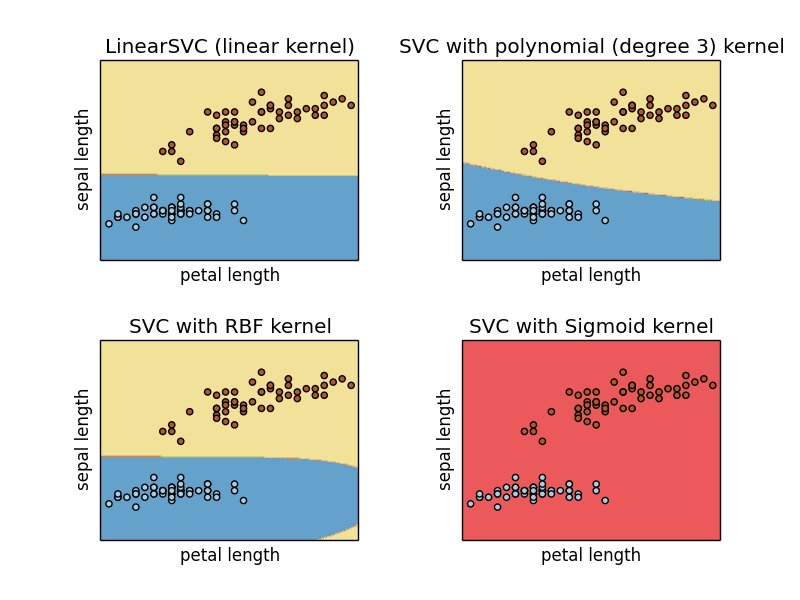
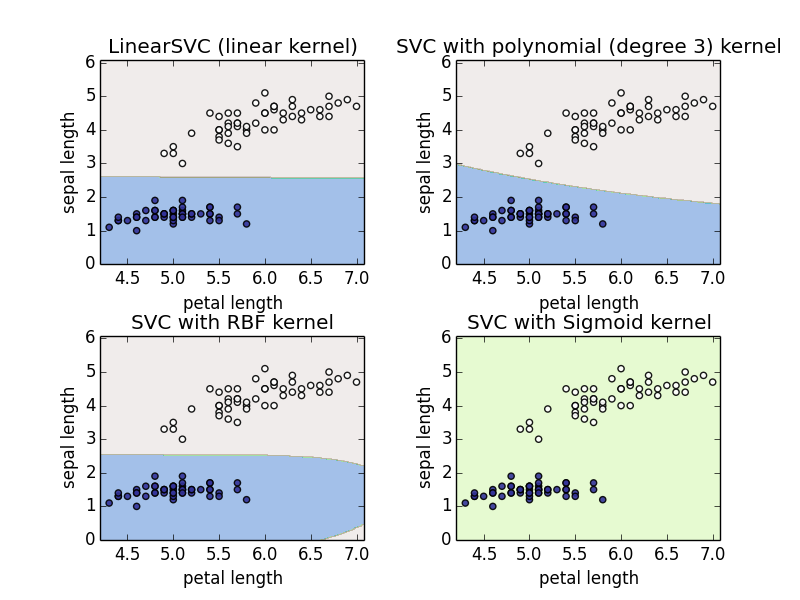
post

diff --git a/_site/liuqianchao/update/2015/11/29/SVM/index.html b/_site/liuqianchao/update/2015/11/29/SVM/index.html
@@ -80,7 +80,7 @@
 
 <h3 id="what-is-svm">1. What is <em>SVM</em>?</h3>
 <p>In general, there are two kinds of classificaiton, <strong>non-parametric</strong> and <strong>parametric</strong> approaches. The parametric approach is to assume a simple parametric model for density functions and to estimate the parameters of the model using an available training set.
-However, for most of cases, we can not assume that the desity of data samples is characterised by a series of parameters in this irregular world. So we introduce the non-parametric method which includes <em>SVM</em>.</p>
+However, for most of cases, we can not assume that the desity of data samples can be characterised by a series of parameters in this irregular world. So we introduce the non-parametric method which includes <em>SVM</em>.</p>
 
 <h3 id="how-it-works">2. How it works?</h3>
 
@@ -88,6 +88,8 @@ However, for most of cases, we can not assume that the desity of data samples is
 <p>There is a package named <em>scikit-learn</em> in Python. Find information to install it at <a href="http://scikit-learn.org/stable/index.html">here</a>. We can use the official date sets of <em>scikit-learn</em>, and examine the performance of classification. Here, we use <em>Iris</em> dataset. There are 3 kinds of iris, each sample has 4 properties which include petal length, petal width, sepal length, and sepal width.    </p>
 
 <p>In this experiment, we removed one kind of iris, and two groups of iris are left. After this process, we have two kinds of iris, and each kind has 50 samples. And in order to draw two-dimensional chart, two properties are left: petal length and sepal length.</p>
+
+<h4 id="handle-the-dataset">3.1 Handle the dataset</h4>
 
 <figure class="highlight"><pre><code class="language-python" data-lang="python"><span class="c">#acquire and handle dataset.</span>
 <span class="kn">from</span> <span class="nn">sklearn</span> <span class="kn">import</span> <span class="n">datasets</span> 
@@ -97,65 +99,63 @@ However, for most of cases, we can not assume that the desity of data samples is
 <span class="k">for</span> <span class="n">num</span> <span class="ow">in</span> <span class="nb">range</span><span class="p">(</span><span class="nb">len</span><span class="p">(</span><span class="n">iris</span><span class="o">.</span><span class="n">target</span><span class="p">)):</span>
     <span class="k">if</span> <span class="n">iris</span><span class="o">.</span><span class="n">target</span><span class="p">[</span><span class="n">num</span><span class="p">]</span><span class="o">!=</span><span class="mi">2</span><span class="p">:</span> <span class="c">#iris.target[num]=2 is corresponding to the third kind of iris</span>
         <span class="n">dateset_property</span><span class="o">.</span><span class="n">append</span><span class="p">(</span><span class="n">iris</span><span class="o">.</span><span class="n">data</span><span class="p">[</span><span class="n">num</span><span class="p">])</span>
-        <span class="n">dateset_target</span><span class="o">.</span><span class="n">append</span><span class="p">(</span><span class="n">iris</span><span class="o">.</span><span class="n">target</span><span class="p">[</span><span class="n">num</span><span class="p">])</span></code></pre></figure>
+        <span class="n">dateset_target</span><span class="o">.</span><span class="n">append</span><span class="p">(</span><span class="n">iris</span><span class="o">.</span><span class="n">target</span><span class="p">[</span><span class="n">num</span><span class="p">])</span>
+<span class="n">x</span> <span class="o">=</span> <span class="n">np</span><span class="o">.</span><span class="n">array</span><span class="p">(</span><span class="n">dateset_property</span><span class="p">)</span>
+<span class="n">y</span> <span class="o">=</span> <span class="n">np</span><span class="o">.</span><span class="n">array</span><span class="p">(</span><span class="n">dateset_target</span><span class="p">)</span></code></pre></figure>
+
+<h4 id="train-the-model">3.2 Train the model.</h4>
+<p>In this experiment, I apply 4 kinds of kernel function, including <em>linear</em>,<em>poly</em>,<em>RBF</em> and <em>sigmoid</em>.</p>
 
 <figure class="highlight"><pre><code class="language-python" data-lang="python"><span class="kn">import</span> <span class="nn">numpy</span> <span class="kn">as</span> <span class="nn">np</span>
 <span class="kn">from</span> <span class="nn">sklearn</span> <span class="kn">import</span> <span class="n">svm</span>
 <span class="kn">from</span> <span class="nn">sklearn.cross_validation</span> <span class="kn">import</span> <span class="n">train_test_split</span>
-<span class="kn">import</span> <span class="nn">matplotlib.pyplot</span> <span class="kn">as</span> <span class="nn">plt</span>
 
-<span class="n">x</span> <span class="o">=</span> <span class="n">np</span><span class="o">.</span><span class="n">array</span><span class="p">(</span><span class="n">dateset_property</span><span class="p">)</span>
-<span class="n">y</span> <span class="o">=</span> <span class="n">np</span><span class="o">.</span><span class="n">array</span><span class="p">(</span><span class="n">dateset_target</span><span class="p">)</span>
-
+<span class="c">#split the dataset, and rearrange the list</span>
 <span class="n">x_train</span><span class="p">,</span> <span class="n">x_test</span><span class="p">,</span> <span class="n">y_train</span><span class="p">,</span> <span class="n">y_test</span> <span class="o">=</span> <span class="n">train_test_split</span><span class="p">(</span><span class="n">x</span><span class="p">,</span> <span class="n">y</span><span class="p">,</span> <span class="n">test_size</span> <span class="o">=</span> <span class="mf">0.0</span><span class="p">)</span>
 
-<span class="n">h</span> <span class="o">=</span> <span class="o">.</span><span class="mo">02</span>
 <span class="c"># create a mesh to plot in</span>
 <span class="n">x_min</span><span class="p">,</span> <span class="n">x_max</span> <span class="o">=</span> <span class="n">x_train</span><span class="p">[:,</span> <span class="mi">0</span><span class="p">]</span><span class="o">.</span><span class="n">min</span><span class="p">()</span> <span class="o">-</span> <span class="mf">0.1</span><span class="p">,</span> <span class="n">x_train</span><span class="p">[:,</span> <span class="mi">0</span><span class="p">]</span><span class="o">.</span><span class="n">max</span><span class="p">()</span> <span class="o">+</span> <span class="mf">0.1</span>
 <span class="n">y_min</span><span class="p">,</span> <span class="n">y_max</span> <span class="o">=</span> <span class="n">x_train</span><span class="p">[:,</span> <span class="mi">1</span><span class="p">]</span><span class="o">.</span><span class="n">min</span><span class="p">()</span> <span class="o">-</span> <span class="mi">1</span><span class="p">,</span> <span class="n">x_train</span><span class="p">[:,</span> <span class="mi">1</span><span class="p">]</span><span class="o">.</span><span class="n">max</span><span class="p">()</span> <span class="o">+</span> <span class="mi">1</span>
-<span class="n">xx</span><span class="p">,</span> <span class="n">yy</span> <span class="o">=</span> <span class="n">np</span><span class="o">.</span><span class="n">meshgrid</span><span class="p">(</span><span class="n">np</span><span class="o">.</span><span class="n">arange</span><span class="p">(</span><span class="n">x_min</span><span class="p">,</span> <span class="n">x_max</span><span class="p">,</span> <span class="n">h</span><span class="p">),</span>
-                     <span class="n">np</span><span class="o">.</span><span class="n">arange</span><span class="p">(</span><span class="n">y_min</span><span class="p">,</span> <span class="n">y_max</span><span class="p">,</span> <span class="n">h</span><span class="p">))</span>
+<span class="n">xx</span><span class="p">,</span> <span class="n">yy</span> <span class="o">=</span> <span class="n">np</span><span class="o">.</span><span class="n">meshgrid</span><span class="p">(</span><span class="n">np</span><span class="o">.</span><span class="n">arange</span><span class="p">(</span><span class="n">x_min</span><span class="p">,</span> <span class="n">x_max</span><span class="p">,</span> <span class="mf">0.02</span><span class="p">),</span> <span class="n">np</span><span class="o">.</span><span class="n">arange</span><span class="p">(</span><span class="n">y_min</span><span class="p">,</span> <span class="n">y_max</span><span class="p">,</span> <span class="mf">0.02</span><span class="p">))</span>
 
 <span class="c"># title for the plots</span>
-<span class="n">titles</span> <span class="o">=</span> <span class="p">[</span><span class="s">&#39;LinearSVC (linear kernel)&#39;</span><span class="p">,</span>
-          <span class="s">&#39;SVC with polynomial (degree 3) kernel&#39;</span><span class="p">,</span>
-          <span class="s">&#39;SVC with RBF kernel&#39;</span><span class="p">,</span>
-          <span class="s">&#39;SVC with Sigmoid kernel&#39;</span><span class="p">]</span>
-<span class="n">clf_linear</span>  <span class="o">=</span> <span class="n">svm</span><span class="o">.</span><span class="n">SVC</span><span class="p">(</span><span class="n">kernel</span><span class="o">=</span><span class="s">&#39;linear&#39;</span><span class="p">)</span><span class="o">.</span><span class="n">fit</span><span class="p">(</span><span class="n">x</span><span class="p">,</span> <span class="n">y</span><span class="p">)</span>
-<span class="c">#clf_linear  = svm.LinearSVC().fit(x, y)</span>
-<span class="n">clf_poly</span>    <span class="o">=</span> <span class="n">svm</span><span class="o">.</span><span class="n">SVC</span><span class="p">(</span><span class="n">kernel</span><span class="o">=</span><span class="s">&#39;poly&#39;</span><span class="p">,</span> <span class="n">degree</span><span class="o">=</span><span class="mi">3</span><span class="p">)</span><span class="o">.</span><span class="n">fit</span><span class="p">(</span><span class="n">x</span><span class="p">,</span> <span class="n">y</span><span class="p">)</span>
-<span class="n">clf_rbf</span>     <span class="o">=</span> <span class="n">svm</span><span class="o">.</span><span class="n">SVC</span><span class="p">()</span><span class="o">.</span><span class="n">fit</span><span class="p">(</span><span class="n">x</span><span class="p">,</span> <span class="n">y</span><span class="p">)</span>
-<span class="n">clf_sigmoid</span> <span class="o">=</span> <span class="n">svm</span><span class="o">.</span><span class="n">SVC</span><span class="p">(</span><span class="n">kernel</span><span class="o">=</span><span class="s">&#39;sigmoid&#39;</span><span class="p">)</span><span class="o">.</span><span class="n">fit</span><span class="p">(</span><span class="n">x</span><span class="p">,</span> <span class="n">y</span><span class="p">)</span>
+<span class="n">titles</span> <span class="o">=</span> <span class="p">[</span><span class="s">&#39;LinearSVC (linear kernel)&#39;</span><span class="p">,</span><span class="s">&#39;SVC with polynomial (degree 3) kernel&#39;</span><span class="p">,</span> <span class="s">&#39;SVC with RBF kernel&#39;</span><span class="p">,</span> <span class="s">&#39;SVC with Sigmoid kernel&#39;</span><span class="p">]</span>
+<span class="n">clf_linear</span>  <span class="o">=</span> <span class="n">svm</span><span class="o">.</span><span class="n">SVC</span><span class="p">(</span><span class="n">kernel</span><span class="o">=</span><span class="s">&#39;linear&#39;</span><span class="p">)</span><span class="o">.</span><span class="n">fit</span><span class="p">(</span><span class="n">x_train</span><span class="p">,</span> <span class="n">y_train</span><span class="p">)</span>
+<span class="n">clf_poly</span>    <span class="o">=</span> <span class="n">svm</span><span class="o">.</span><span class="n">SVC</span><span class="p">(</span><span class="n">kernel</span><span class="o">=</span><span class="s">&#39;poly&#39;</span><span class="p">,</span> <span class="n">degree</span><span class="o">=</span><span class="mi">3</span><span class="p">)</span><span class="o">.</span><span class="n">fit</span><span class="p">(</span><span class="n">x_train</span><span class="p">,</span> <span class="n">y_train</span><span class="p">)</span>
+<span class="n">clf_rbf</span>     <span class="o">=</span> <span class="n">svm</span><span class="o">.</span><span class="n">SVC</span><span class="p">()</span><span class="o">.</span><span class="n">fit</span><span class="p">(</span><span class="n">x_train</span><span class="p">,</span> <span class="n">y_train</span><span class="p">)</span>
+<span class="n">clf_sigmoid</span> <span class="o">=</span> <span class="n">svm</span><span class="o">.</span><span class="n">SVC</span><span class="p">(</span><span class="n">kernel</span><span class="o">=</span><span class="s">&#39;sigmoid&#39;</span><span class="p">)</span><span class="o">.</span><span class="n">fit</span><span class="p">(</span><span class="n">x_train</span><span class="p">,</span> <span class="n">y_train</span><span class="p">)</span></code></pre></figure>
 
+<h4 id="draw-plot">3.3 Draw plot</h4>
+
+<figure class="highlight"><pre><code class="language-python" data-lang="python"><span class="kn">import</span> <span class="nn">matplotlib.pyplot</span> <span class="kn">as</span> <span class="nn">plt</span>
 <span class="k">for</span> <span class="n">i</span><span class="p">,</span> <span class="n">clf</span> <span class="ow">in</span> <span class="nb">enumerate</span><span class="p">((</span><span class="n">clf_linear</span><span class="p">,</span> <span class="n">clf_poly</span><span class="p">,</span> <span class="n">clf_rbf</span><span class="p">,</span> <span class="n">clf_sigmoid</span><span class="p">)):</span>
-    <span class="n">answer</span> <span class="o">=</span> <span class="n">clf</span><span class="o">.</span><span class="n">predict</span><span class="p">(</span><span class="n">np</span><span class="o">.</span><span class="n">c_</span><span class="p">[</span><span class="n">xx</span><span class="o">.</span><span class="n">ravel</span><span class="p">(),</span> <span class="n">yy</span><span class="o">.</span><span class="n">ravel</span><span class="p">()])</span>
-    <span class="k">print</span><span class="p">(</span><span class="n">clf</span><span class="p">)</span>
-    <span class="k">print</span><span class="p">(</span><span class="n">np</span><span class="o">.</span><span class="n">mean</span><span class="p">(</span> <span class="n">answer</span> <span class="o">==</span> <span class="n">y_train</span><span class="p">))</span>
-    <span class="k">print</span><span class="p">(</span><span class="n">answer</span><span class="p">)</span>
-    <span class="k">print</span><span class="p">(</span><span class="n">y_train</span><span class="p">)</span>
+    <span class="c">#result are the predict result of all the meshgrid.</span>
+    <span class="n">result</span> <span class="o">=</span> <span class="n">clf</span><span class="o">.</span><span class="n">predict</span><span class="p">(</span><span class="n">np</span><span class="o">.</span><span class="n">c_</span><span class="p">[</span><span class="n">xx</span><span class="o">.</span><span class="n">ravel</span><span class="p">(),</span> <span class="n">yy</span><span class="o">.</span><span class="n">ravel</span><span class="p">()])</span>
 
+    <span class="c">#set the composition of plot</span>
     <span class="n">plt</span><span class="o">.</span><span class="n">subplot</span><span class="p">(</span><span class="mi">2</span><span class="p">,</span> <span class="mi">2</span><span class="p">,</span> <span class="n">i</span> <span class="o">+</span> <span class="mi">1</span><span class="p">)</span>
-    <span class="n">plt</span><span class="o">.</span><span class="n">subplots_adjust</span><span class="p">(</span><span class="n">wspace</span><span class="o">=</span><span class="mf">0.4</span><span class="p">,</span> <span class="n">hspace</span><span class="o">=</span><span class="mf">0.4</span><span class="p">)</span>
+    <span class="n">plt</span><span class="o">.</span><span class="n">subplots_adjust</span><span class="p">(</span><span class="n">wspace</span><span class="o">=</span><span class="mf">0.35</span><span class="p">,</span> <span class="n">hspace</span><span class="o">=</span><span class="mf">0.35</span><span class="p">)</span>
 
-    <span class="c"># Put the result into a color plot</span>
-    <span class="n">z</span> <span class="o">=</span> <span class="n">answer</span><span class="o">.</span><span class="n">reshape</span><span class="p">(</span><span class="n">xx</span><span class="o">.</span><span class="n">shape</span><span class="p">)</span>
-    <span class="n">plt</span><span class="o">.</span><span class="n">contourf</span><span class="p">(</span><span class="n">xx</span><span class="p">,</span> <span class="n">yy</span><span class="p">,</span> <span class="n">z</span><span class="p">,</span> <span class="n">cmap</span><span class="o">=</span><span class="n">plt</span><span class="o">.</span><span class="n">cm</span><span class="o">.</span><span class="n">Paired</span><span class="p">,</span> <span class="n">alpha</span><span class="o">=</span><span class="mf">0.8</span><span class="p">)</span>
+    <span class="c"># Put the result into a color plot.</span>
+    <span class="n">z</span> <span class="o">=</span> <span class="n">result</span><span class="o">.</span><span class="n">reshape</span><span class="p">(</span><span class="n">xx</span><span class="o">.</span><span class="n">shape</span><span class="p">)</span>
+    <span class="n">plt</span><span class="o">.</span><span class="n">contourf</span><span class="p">(</span><span class="n">xx</span><span class="p">,</span> <span class="n">yy</span><span class="p">,</span> <span class="n">z</span><span class="p">,</span> <span class="n">cmap</span><span class="o">=</span><span class="s">&#39;terrain&#39;</span><span class="p">,</span> <span class="n">alpha</span><span class="o">=</span><span class="mf">0.4</span><span class="p">)</span>
 
-    <span class="c"># Plot also the training points</span>
-    <span class="n">plt</span><span class="o">.</span><span class="n">scatter</span><span class="p">(</span><span class="n">x_train</span><span class="p">[:,</span> <span class="mi">0</span><span class="p">],</span> <span class="n">x_train</span><span class="p">[:,</span> <span class="mi">1</span><span class="p">],</span> <span class="n">c</span><span class="o">=</span><span class="n">y_train</span><span class="p">,</span> <span class="n">cmap</span><span class="o">=</span><span class="n">plt</span><span class="o">.</span><span class="n">cm</span><span class="o">.</span><span class="n">Paired</span><span class="p">)</span>
+    <span class="c"># Plot the training points</span>
+    <span class="n">plt</span><span class="o">.</span><span class="n">scatter</span><span class="p">(</span><span class="n">x_train</span><span class="p">[:,</span> <span class="mi">0</span><span class="p">],</span> <span class="n">x_train</span><span class="p">[:,</span> <span class="mi">1</span><span class="p">],</span> <span class="n">c</span><span class="o">=</span><span class="n">y_train</span><span class="p">,</span> <span class="n">cmap</span><span class="o">=</span><span class="s">&#39;terrain&#39;</span><span class="p">,</span><span class="n">alpha</span><span class="o">=</span><span class="mf">0.9</span><span class="p">)</span>
     <span class="n">plt</span><span class="o">.</span><span class="n">xlabel</span><span class="p">(</span><span class="s">u&#39;petal length&#39;</span><span class="p">)</span>
     <span class="n">plt</span><span class="o">.</span><span class="n">ylabel</span><span class="p">(</span><span class="s">u&#39;sepal length&#39;</span><span class="p">)</span>
     <span class="n">plt</span><span class="o">.</span><span class="n">xlim</span><span class="p">(</span><span class="n">xx</span><span class="o">.</span><span class="n">min</span><span class="p">(),</span> <span class="n">xx</span><span class="o">.</span><span class="n">max</span><span class="p">())</span>
     <span class="n">plt</span><span class="o">.</span><span class="n">ylim</span><span class="p">(</span><span class="n">yy</span><span class="o">.</span><span class="n">min</span><span class="p">(),</span> <span class="n">yy</span><span class="o">.</span><span class="n">max</span><span class="p">())</span>
-    <span class="n">plt</span><span class="o">.</span><span class="n">xticks</span><span class="p">(())</span>
-    <span class="n">plt</span><span class="o">.</span><span class="n">yticks</span><span class="p">(())</span>
     <span class="n">plt</span><span class="o">.</span><span class="n">title</span><span class="p">(</span><span class="n">titles</span><span class="p">[</span><span class="n">i</span><span class="p">])</span>
-
 <span class="n">plt</span><span class="o">.</span><span class="n">show</span><span class="p">()</span></code></pre></figure>
 
 <h4 id="result-of-classification">Result of classification</h4>
-
-<p><img src="http://qianchaoliu.github.io//assets/screenshot.png" alt="图片" /></p>
+<div align="center">
+<img src="http://qianchaoliu.github.io//assets/screenshot.png" width="550" height="440" />
+</div>
+<div align="center">
+Figure: result of classification
+</div>
 
 <h4 id="reference">Reference</h4>
 <ol>

diff --git a/_posts/2015-11-29-SVM.md b/_posts/2015-11-29-SVM.md
@@ -9,7 +9,7 @@ Support Vector Machine(*SVM*), k-Nearest Neighbors algorithm(*k-NN*), and Naive 
 
 ###1. What is *SVM*?
 In general, there are two kinds of classificaiton, **non-parametric** and **parametric** approaches. The parametric approach is to assume a simple parametric model for density functions and to estimate the parameters of the model using an available training set.
-However, for most of cases, we can not assume that the desity of data samples is characterised by a series of parameters in this irregular world. So we introduce the non-parametric method which includes *SVM*.
+However, for most of cases, we can not assume that the desity of data samples can be characterised by a series of parameters in this irregular world. So we introduce the non-parametric method which includes *SVM*.
 
 ###2. How it works?
 
@@ -18,6 +18,7 @@ There is a package named *scikit-learn* in Python. Find information to install i
 
 In this experiment, we removed one kind of iris, and two groups of iris are left. After this process, we have two kinds of iris, and each kind has 50 samples. And in order to draw two-dimensional chart, two properties are left: petal length and sepal length.
 
+####3.1 Handle the dataset
 {% highlight python %}
 #acquire and handle dataset.
 from sklearn import datasets 
@@ -28,66 +29,65 @@ for num in range(len(iris.target)):
     if iris.target[num]!=2: #iris.target[num]=2 is corresponding to the third kind of iris
         dateset_property.append(iris.data[num])
         dateset_target.append(iris.target[num])
+x = np.array(dateset_property)
+y = np.array(dateset_target)
 {% endhighlight %}   
 
+####3.2 Train the model.
+In this experiment, I apply 4 kinds of kernel function, including *linear*,*poly*,*RBF* and *sigmoid*.
 {% highlight python %}
 import numpy as np
 from sklearn import svm
 from sklearn.cross_validation import train_test_split
-import matplotlib.pyplot as plt
 
-x = np.array(dateset_property)
-y = np.array(dateset_target)
-
+#split the dataset, and rearrange the list
 x_train, x_test, y_train, y_test = train_test_split(x, y, test_size = 0.0)
 
-h = .02
 # create a mesh to plot in
 x_min, x_max = x_train[:, 0].min() - 0.1, x_train[:, 0].max() + 0.1
 y_min, y_max = x_train[:, 1].min() - 1, x_train[:, 1].max() + 1
-xx, yy = np.meshgrid(np.arange(x_min, x_max, h),
-                     np.arange(y_min, y_max, h))
+xx, yy = np.meshgrid(np.arange(x_min, x_max, 0.02), np.arange(y_min, y_max, 0.02))
 
 # title for the plots
-titles = ['LinearSVC (linear kernel)',
-          'SVC with polynomial (degree 3) kernel',
-          'SVC with RBF kernel',
-          'SVC with Sigmoid kernel']
-clf_linear  = svm.SVC(kernel='linear').fit(x, y)
-#clf_linear  = svm.LinearSVC().fit(x, y)
-clf_poly    = svm.SVC(kernel='poly', degree=3).fit(x, y)
-clf_rbf     = svm.SVC().fit(x, y)
-clf_sigmoid = svm.SVC(kernel='sigmoid').fit(x, y)
+titles = ['LinearSVC (linear kernel)','SVC with polynomial (degree 3) kernel', 'SVC with RBF kernel', 'SVC with Sigmoid kernel']
+clf_linear  = svm.SVC(kernel='linear').fit(x_train, y_train)
+clf_poly    = svm.SVC(kernel='poly', degree=3).fit(x_train, y_train)
+clf_rbf     = svm.SVC().fit(x_train, y_train)
+clf_sigmoid = svm.SVC(kernel='sigmoid').fit(x_train, y_train)
+{% endhighlight %} 
 
+####3.3 Draw plot
+{% highlight python %}
+import matplotlib.pyplot as plt
 for i, clf in enumerate((clf_linear, clf_poly, clf_rbf, clf_sigmoid)):
-    answer = clf.predict(np.c_[xx.ravel(), yy.ravel()])
-    print(clf)
-    print(np.mean( answer == y_train))
-    print(answer)
-    print(y_train)
+    #result are the predict result of all the meshgrid.
+    result = clf.predict(np.c_[xx.ravel(), yy.ravel()])
 
+    #set the composition of plot
     plt.subplot(2, 2, i + 1)
-    plt.subplots_adjust(wspace=0.4, hspace=0.4)
+    plt.subplots_adjust(wspace=0.35, hspace=0.35)
 
-    # Put the result into a color plot
-    z = answer.reshape(xx.shape)
-    plt.contourf(xx, yy, z, cmap=plt.cm.Paired, alpha=0.8)
+    # Put the result into a color plot.
+    z = result.reshape(xx.shape)
+    plt.contourf(xx, yy, z, cmap='terrain', alpha=0.4)
 
-    # Plot also the training points
-    plt.scatter(x_train[:, 0], x_train[:, 1], c=y_train, cmap=plt.cm.Paired)
+    # Plot the training points
+    plt.scatter(x_train[:, 0], x_train[:, 1], c=y_train, cmap='terrain',alpha=0.9)
     plt.xlabel(u'petal length')
     plt.ylabel(u'sepal length')
     plt.xlim(xx.min(), xx.max())
     plt.ylim(yy.min(), yy.max())
-    plt.xticks(())
-    plt.yticks(())
     plt.title(titles[i])
-
 plt.show()
 {% endhighlight %} 
-#### Result of classification
 
-![图片]({{ site.url }}/assets/screenshot.png)
+#### Result of classification
+<div align="center">
+<img src="{{ site.url }}/assets/screenshot.png" width="550" height="440">
+</div>
+<div align="center">
+Figure: result of classification
+</div>
 
 #### Reference
 1. Andrew R. Webb and Keith D. Copsey *Statistical Pattern Recognition(Third Edition)*.
